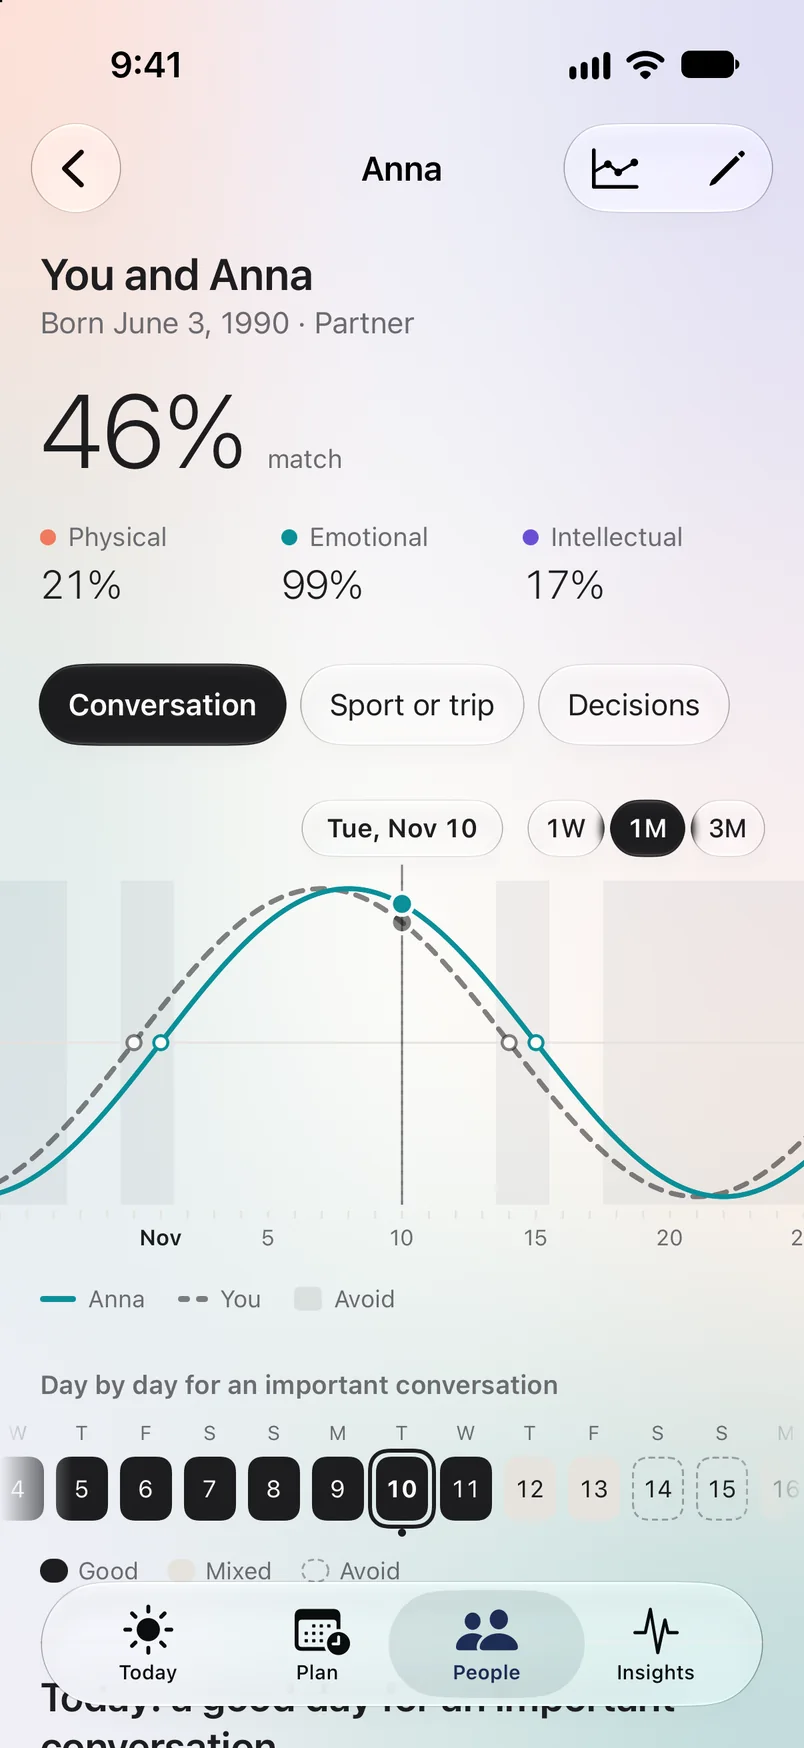
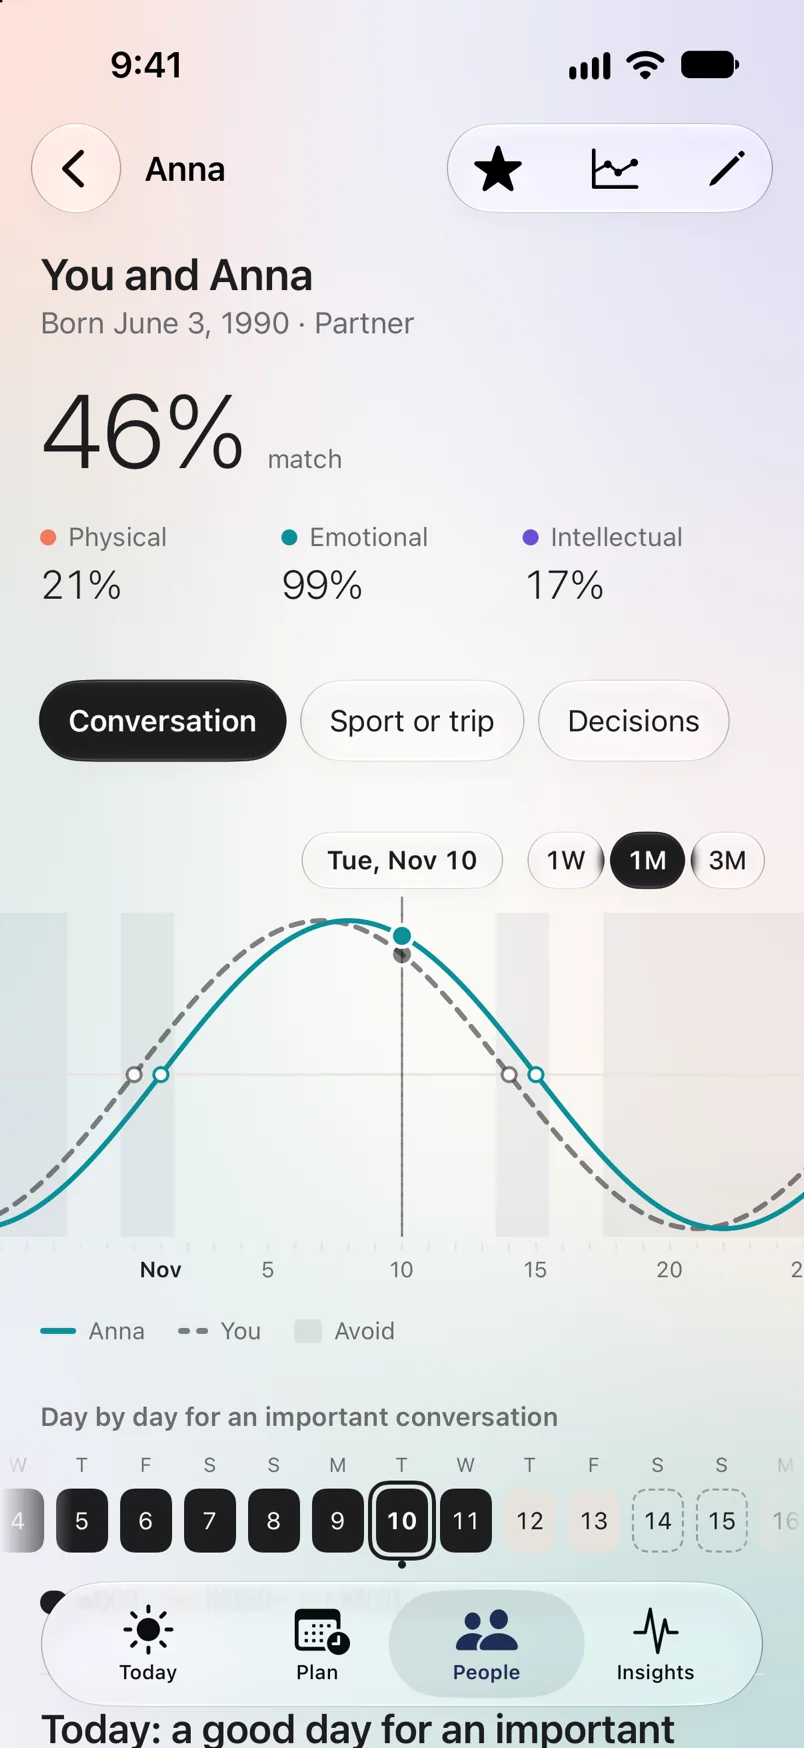
Light and dark app screens that follow the page theme

diff --git a/index.html b/index.html
@@ -8,9 +8,9 @@
     <meta name="theme-color" content="#0f1217" media="(prefers-color-scheme: dark)">
     <link rel="preload" href="fonts/instrument-sans-latin.woff2" as="font" type="font/woff2" crossorigin>
     <link rel="stylesheet" href="themes/default.css?v=2">
-    <link rel="stylesheet" href="styles.css?v=5">
+    <link rel="stylesheet" href="styles.css?v=6">
     <link rel="stylesheet" href="scrollcraft.css?v=1">
-    <link rel="stylesheet" href="landing.css?v=1">
+    <link rel="stylesheet" href="landing.css?v=2">
     <!-- Title: under 60 characters, brand + what it is + platform. Add "Official Site" only if other products share the name. -->
     <title>Biotide: Daily Biorhythm Chart & Energy Tracker</title>
     <!-- Description: max 160 characters, one sentence a searcher would click. -->
@@ -330,7 +330,7 @@
                 <!-- Apple's iPhone 17 bezel, used as is, with a real screen from the app's screenshot
                      mode (iPhone 17 Pro simulator, 1206x2622, exported at 804x1748). Never a drawn phone. -->
                 <div class="phone hero-phone">
-                    <div class="phone__screen"><img src="images/screen-today.webp?v=1" width="804" height="1748" alt="Biotide's daily biorhythm chart for Tuesday, November 10: physical 0, emotional +78, intellectual −37, the three curves across the month, and the day in words: a transition day for the physical cycle, good for time with people" fetchpriority="high"></div>
+                    <div class="phone__screen"><picture class="themed"><source srcset="images/screen-today-dark.webp?v=2" media="(prefers-color-scheme: dark)" data-dark><img src="images/screen-today.webp?v=2" width="804" height="1748" alt="Biotide's daily biorhythm chart for Tuesday, November 10: physical 0, emotional +78, intellectual −37, the three curves across the month, and the day in words: a transition day for the physical cycle, good for time with people" fetchpriority="high"></picture></div>
                     <img class="phone__frame" src="images/iphone17-black.webp" width="675" height="1380" alt="" aria-hidden="true">
                 </div>
             </div>
@@ -436,7 +436,7 @@
                     <li class="how-step"><h3>See what fits</h3><p>After 14 check-ins Biotide shows how often each curve matched how you felt. Here the emotional curve matched only 57% of the time, so it counts for less.</p></li>
                     <li class="how-step"><h3>Plan ahead</h3><p>Pick an exam, an interview or an important conversation, and Biotide ranks the days ahead with the curves that fit you: here, the 15th, 17th and 19th.</p></li>
                 </ol>
-                <div class="phone how-phone"><div class="phone__screen"><img class="how-screen" data-step="0" data-from="0.0" src="images/screen-today.webp?v=1" width="804" height="1748" alt="Biotide&#x27;s Today screen for Tuesday, November 10: physical 0, emotional +78, intellectual −37 and the three curves across the month" loading="lazy"><img class="how-screen" data-step="0" data-from="0.17" src="images/screen-checkin.webp?v=1" width="804" height="1748" alt="The daily check-in: energy, mood, focus and last night&#x27;s sleep, each rated from 1 to 5, with an optional note" loading="lazy"><img class="how-screen" data-step="1" data-from="0.4" src="images/screen-insights.webp?v=1" width="804" height="1748" alt="Insights: Apple Health signals against your usual, two weeks of check-in averages, and how often each curve matched how you felt" loading="lazy"><img class="how-screen" data-step="2" data-from="0.62" src="images/screen-plan.webp?v=1" width="804" height="1748" alt="Prime days for an exam: the best days in the next 30, the first on Tuesday, November 17" loading="lazy"></div><img class="phone__frame" src="images/iphone17-black.webp" width="675" height="1380" alt="" aria-hidden="true" loading="lazy"></div>
+                <div class="phone how-phone"><div class="phone__screen"><picture class="themed"><source srcset="images/screen-today-dark.webp?v=2" media="(prefers-color-scheme: dark)" data-dark><img class="how-screen" data-step="0" data-from="0.0" src="images/screen-today.webp?v=2" width="804" height="1748" alt="Biotide&#x27;s Today screen for Tuesday, November 10: physical 0, emotional +78, intellectual −37 and the three curves across the month" loading="lazy"></picture><picture class="themed"><source srcset="images/screen-checkin-dark.webp?v=2" media="(prefers-color-scheme: dark)" data-dark><img class="how-screen" data-step="0" data-from="0.17" src="images/screen-checkin.webp?v=2" width="804" height="1748" alt="The daily check-in: energy, mood, focus and last night&#x27;s sleep, each rated from 1 to 5, with an optional note" loading="lazy"></picture><picture class="themed"><source srcset="images/screen-insights-dark.webp?v=2" media="(prefers-color-scheme: dark)" data-dark><img class="how-screen" data-step="1" data-from="0.4" src="images/screen-insights.webp?v=2" width="804" height="1748" alt="Insights: Apple Health signals against your usual, two weeks of check-in averages, and how often each curve matched how you felt" loading="lazy"></picture><picture class="themed"><source srcset="images/screen-plan-dark.webp?v=2" media="(prefers-color-scheme: dark)" data-dark><img class="how-screen" data-step="2" data-from="0.62" src="images/screen-plan.webp?v=2" width="804" height="1748" alt="Prime days for an exam: the best days in the next 30, the first on Tuesday, November 17" loading="lazy"></picture></div><img class="phone__frame" src="images/iphone17-black.webp" width="675" height="1380" alt="" aria-hidden="true" loading="lazy"></div>
             </div>
         </div>
     </section>
@@ -490,12 +490,12 @@
         </div>
         <div class="marquee" aria-label="iPhone screenshots">
             <div class="marquee-group">
-                <img src="images/screen-today.webp?v=1" width="804" height="1748" alt="Today: the three cycle values and the daily biorhythm chart for the month" loading="lazy">
-                <img src="images/screen-checkin.webp?v=1" width="804" height="1748" alt="The daily check-in: energy, mood, focus and sleep, each from 1 to 5" loading="lazy">
-                <img src="images/screen-insights.webp?v=1" width="804" height="1748" alt="Insights: Apple Health signals against your usual and how often each curve matched how you felt" loading="lazy">
-                <img src="images/screen-plan.webp?v=1" width="804" height="1748" alt="Prime days: the best days in the next 30 for an exam" loading="lazy">
-                <img src="images/screen-compatibility.webp?v=1" width="804" height="1748" alt="Biorhythm compatibility with Anna: a 46% match, each cycle's share, both curves on one chart and a day-by-day strip for an important conversation" loading="lazy">
-                <img src="images/screen-people.webp?v=1" width="804" height="1748" alt="People: Dad, Anna and Mark with their match and their next good day to talk" loading="lazy">
+                <picture class="themed"><source srcset="images/screen-today-dark.webp?v=2" media="(prefers-color-scheme: dark)" data-dark><img src="images/screen-today.webp?v=2" width="804" height="1748" alt="Today: the three cycle values and the daily biorhythm chart for the month" loading="lazy"></picture>
+                <picture class="themed"><source srcset="images/screen-checkin-dark.webp?v=2" media="(prefers-color-scheme: dark)" data-dark><img src="images/screen-checkin.webp?v=2" width="804" height="1748" alt="The daily check-in: energy, mood, focus and sleep, each from 1 to 5" loading="lazy"></picture>
+                <picture class="themed"><source srcset="images/screen-insights-dark.webp?v=2" media="(prefers-color-scheme: dark)" data-dark><img src="images/screen-insights.webp?v=2" width="804" height="1748" alt="Insights: Apple Health signals against your usual and how often each curve matched how you felt" loading="lazy"></picture>
+                <picture class="themed"><source srcset="images/screen-plan-dark.webp?v=2" media="(prefers-color-scheme: dark)" data-dark><img src="images/screen-plan.webp?v=2" width="804" height="1748" alt="Prime days: the best days in the next 30 for an exam" loading="lazy"></picture>
+                <picture class="themed"><source srcset="images/screen-compatibility-dark.webp?v=2" media="(prefers-color-scheme: dark)" data-dark><img src="images/screen-compatibility.webp?v=2" width="804" height="1748" alt="Biorhythm compatibility with Anna: a 46% match, each cycle's share, both curves on one chart and a day-by-day strip for an important conversation" loading="lazy"></picture>
+                <picture class="themed"><source srcset="images/screen-people-dark.webp?v=2" media="(prefers-color-scheme: dark)" data-dark><img src="images/screen-people.webp?v=2" width="804" height="1748" alt="People: Anna, starred, then Dad and Mark, with their match and their next good day to talk" loading="lazy"></picture>
             </div>
         </div>
     </section>
@@ -625,7 +625,7 @@
     <p class="copyright">&copy; <span id="year">2026</span> Biotide. All rights reserved.</p>
 </footer>
 <!-- /chrome:footer -->
-<script src="site.js?v=2"></script>
+<script src="site.js?v=3"></script>
 <script src="scrollcraft.js?v=1"></script>
 <script>ScrollCraft.mount(document.body);</script>
 <script src="landing.js?v=1"></script>

diff --git a/site.js b/site.js
@@ -135,12 +135,22 @@
             if (allowedThemes.indexOf(theme) === -1) theme = "system";
             html.setAttribute("data-theme", theme);
             writePreference(THEME_KEY, theme);
+            syncThemedImages(theme);
 
             controls.forEach(function (control) {
                 var selected = control.dataset.themeValue === theme;
                 control.checked = selected;
                 control.closest(".theme-option").classList.toggle("active", selected);
                 if (selected && moveFocus) control.focus();
+            });
+        }
+
+        // Screens come in light and dark: each <picture> has a dark <source data-dark>. Its media query follows
+        // the system on its own; a picked theme overrides it, and the browser swaps the image when media changes.
+        function syncThemedImages(theme) {
+            var media = theme === "dark" ? "all" : theme === "light" ? "not all" : "(prefers-color-scheme: dark)";
+            document.querySelectorAll("source[data-dark]").forEach(function (source) {
+                if (source.getAttribute("media") !== media) source.setAttribute("media", media);
             });
         }
 

diff --git a/privacy.html b/privacy.html
@@ -10,7 +10,7 @@
     <meta name="robots" content="index, follow">
     <link rel="preload" href="fonts/instrument-sans-latin.woff2" as="font" type="font/woff2" crossorigin>
     <link rel="stylesheet" href="themes/default.css?v=2">
-    <link rel="stylesheet" href="styles.css?v=5">
+    <link rel="stylesheet" href="styles.css?v=6">
     <script>try{document.documentElement.dataset.theme=localStorage.getItem('biotide_theme')||'system'}catch(e){document.documentElement.dataset.theme='system'}</script>
     <link rel="canonical" href="https://biotide.app/privacy.html">
     <link rel="alternate" type="text/markdown" href="https://biotide.app/privacy.html.md" title="Markdown version for AI agents">
@@ -271,6 +271,6 @@
     <p class="copyright">&copy; <span id="year">2026</span> Biotide. All rights reserved.</p>
 </footer>
 <!-- /chrome:footer -->
-<script src="site.js?v=2"></script>
+<script src="site.js?v=3"></script>
 </body>
 </html>

diff --git a/404.html b/404.html
@@ -10,7 +10,7 @@
     <link rel="preload" href="/fonts/instrument-sans-latin.woff2" as="font" type="font/woff2" crossorigin>
     <!-- Absolute paths: a 404 can be served at any depth. -->
     <link rel="stylesheet" href="/themes/default.css?v=2">
-    <link rel="stylesheet" href="/styles.css?v=5">
+    <link rel="stylesheet" href="/styles.css?v=6">
     <script>try{document.documentElement.dataset.theme=localStorage.getItem('biotide_theme')||'system'}catch(e){document.documentElement.dataset.theme='system'}</script>
     <link rel="icon" type="image/png" href="/images/favicon.png?v=2" sizes="64x64">
     <link rel="apple-touch-icon" href="/images/apple-touch-icon.png?v=2" sizes="180x180">
@@ -114,6 +114,6 @@
     <p class="copyright">&copy; <span id="year">2026</span> Biotide. All rights reserved.</p>
 </footer>
 <!-- /chrome:footer -->
-<script src="/site.js?v=2"></script>
+<script src="/site.js?v=3"></script>
 </body>
 </html>

diff --git a/styles.css b/styles.css
@@ -325,6 +325,9 @@ p, li, dd, dt { max-width: 62ch; }
     width: calc(var(--sw) * 100% + 2 * var(--bleed)); height: calc(var(--sh) * 100% + 2 * var(--bleed));
     border-radius: calc(var(--sr) * var(--pw) + var(--bleed));
 }
+/* light and dark screens: a <picture> whose dark <source> follows the page theme (site.js); the picture adds no box,
+   so the img lays out as if it stood alone */
+picture.themed { display: contents; }
 .phone__screen img { position: absolute; inset: 0; width: 100%; height: 100%; max-width: none; object-fit: fill; }
 img.phone__frame { position: absolute; inset: 0; width: 100%; height: 100%; max-width: none; pointer-events: none; }
 

diff --git a/landing.css b/landing.css
@@ -76,7 +76,7 @@ html { scroll-behavior: auto; }
 /* Apple's bezel, used as is: never moved, tilted, scaled, shadowed or cropped */
 .how-phone { grid-column: 2; grid-row: 1 / 3; width: auto; height: min(74vh, 640px); --pw: calc(min(74vh, 640px) * 0.4891); }
 .how-screen { opacity: 0; }
-.how-screen:first-child { opacity: 1; }
+.phone__screen > :first-child > .how-screen { opacity: 1; }
 .how-act + .section { border-top: 1px solid var(--line); }
 
 @media (max-width: 760px) {

diff --git a/tools/how_scene.py b/tools/how_scene.py
@@ -138,11 +138,15 @@ def svg():
     return "\n                    ".join(e)
 
 
+# Each screen comes in light and dark (images/screen-NAME.webp and screen-NAME-dark.webp); the dark one is a
+# <source data-dark> that site.js points at the page's theme.
+SCREEN_VERSION = 2
+
 SCREENS = [
-    ("today", 0, "images/screen-today.webp?v=1", "Biotide's Today screen for Tuesday, November 10: physical 0, emotional +78, intellectual −37 and the three curves across the month"),
-    ("checkin", 0, "images/screen-checkin.webp?v=1", "The daily check-in: energy, mood, focus and last night's sleep, each rated from 1 to 5, with an optional note"),
-    ("insights", 1, "images/screen-insights.webp?v=1", "Insights: Apple Health signals against your usual, two weeks of check-in averages, and how often each curve matched how you felt"),
-    ("plan", 2, "images/screen-plan.webp?v=1", "Prime days for an exam: the best days in the next 30, the first on Tuesday, November 17"),
+    ("today", 0, "images/screen-today.webp", "Biotide's Today screen for Tuesday, November 10: physical 0, emotional +78, intellectual −37 and the three curves across the month"),
+    ("checkin", 0, "images/screen-checkin.webp", "The daily check-in: energy, mood, focus and last night's sleep, each rated from 1 to 5, with an optional note"),
+    ("insights", 1, "images/screen-insights.webp", "Insights: Apple Health signals against your usual, two weeks of check-in averages, and how often each curve matched how you felt"),
+    ("plan", 2, "images/screen-plan.webp", "Prime days for an exam: the best days in the next 30, the first on Tuesday, November 17"),
 ]
 
 STEPS = [
@@ -155,7 +159,8 @@ STEPS = [
 def scene():
     warp = "[" + ", ".join(f"[{p}, {f:.4f}]" for p, f in WARP) + "]"
     screens = "".join(
-        f'<img class="how-screen" data-step="{step}" data-from="{STEP_FROM[key]}" src="{src}" width="804" height="1748" alt="{html.escape(alt)}" loading="lazy">'
+        f'<picture class="themed"><source srcset="{src.replace(".webp", "-dark.webp")}?v={SCREEN_VERSION}" media="(prefers-color-scheme: dark)" data-dark>'
+        f'<img class="how-screen" data-step="{step}" data-from="{STEP_FROM[key]}" src="{src}?v={SCREEN_VERSION}" width="804" height="1748" alt="{html.escape(alt)}" loading="lazy"></picture>'
         for key, step, src, alt in SCREENS)
     steps = "\n".join(
         f'                    <li class="how-step"><h3>{html.escape(h)}</h3><p>{html.escape(p)}</p></li>' for h, p in STEPS)

diff --git a/index.html.md b/index.html.md
@@ -17,7 +17,7 @@ Coming soon to the App Store
 
 For reflection and planning. Biorhythms are not proven science or medical advice.
 
-![Biotide's daily biorhythm chart for Tuesday, November 10: physical 0, emotional +78, intellectual −37, the three curves across the month, and the day in words: a transition day for the physical cycle, good for time with people](https://biotide.app/images/screen-today.webp?v=1)
+![Biotide's daily biorhythm chart for Tuesday, November 10: physical 0, emotional +78, intellectual −37, the three curves across the month, and the day in words: a transition day for the physical cycle, good for time with people](https://biotide.app/images/screen-today.webp?v=2)
 
 ## Most biorhythm apps tell you. Biotide asks you.
 
@@ -73,7 +73,7 @@ Sample data, as on the screens: the cycles for a birth date of 12 March 1988, tw
 
    Pick an exam, an interview or an important conversation, and Biotide ranks the days ahead with the curves that fit you: here, the 15th, 17th and 19th.
 
-![Biotide's Today screen for Tuesday, November 10: physical 0, emotional +78, intellectual −37 and the three curves across the month](https://biotide.app/images/screen-today.webp?v=1)![The daily check-in: energy, mood, focus and last night's sleep, each rated from 1 to 5, with an optional note](https://biotide.app/images/screen-checkin.webp?v=1)![Insights: Apple Health signals against your usual, two weeks of check-in averages, and how often each curve matched how you felt](https://biotide.app/images/screen-insights.webp?v=1)![Prime days for an exam: the best days in the next 30, the first on Tuesday, November 17](https://biotide.app/images/screen-plan.webp?v=1)
+![Biotide's Today screen for Tuesday, November 10: physical 0, emotional +78, intellectual −37 and the three curves across the month](https://biotide.app/images/screen-today.webp?v=2)![The daily check-in: energy, mood, focus and last night's sleep, each rated from 1 to 5, with an optional note](https://biotide.app/images/screen-checkin.webp?v=2)![Insights: Apple Health signals against your usual, two weeks of check-in averages, and how often each curve matched how you felt](https://biotide.app/images/screen-insights.webp?v=2)![Prime days for an exam: the best days in the next 30, the first on Tuesday, November 17](https://biotide.app/images/screen-plan.webp?v=2)
 
 ## What it costs
 
@@ -109,12 +109,12 @@ Prices are set by the App Store and shown in your currency before you buy. Subsc
 
 Real screens from the app, with sample data: today, the check-in, Insights, Prime days, a compatibility view and People.
 
-![Today: the three cycle values and the daily biorhythm chart for the month](https://biotide.app/images/screen-today.webp?v=1)
-![The daily check-in: energy, mood, focus and sleep, each from 1 to 5](https://biotide.app/images/screen-checkin.webp?v=1)
-![Insights: Apple Health signals against your usual and how often each curve matched how you felt](https://biotide.app/images/screen-insights.webp?v=1)
-![Prime days: the best days in the next 30 for an exam](https://biotide.app/images/screen-plan.webp?v=1)
-![Biorhythm compatibility with Anna: a 46% match, each cycle's share, both curves on one chart and a day-by-day strip for an important conversation](https://biotide.app/images/screen-compatibility.webp?v=1)
-![People: Dad, Anna and Mark with their match and their next good day to talk](https://biotide.app/images/screen-people.webp?v=1)
+![Today: the three cycle values and the daily biorhythm chart for the month](https://biotide.app/images/screen-today.webp?v=2)
+![The daily check-in: energy, mood, focus and sleep, each from 1 to 5](https://biotide.app/images/screen-checkin.webp?v=2)
+![Insights: Apple Health signals against your usual and how often each curve matched how you felt](https://biotide.app/images/screen-insights.webp?v=2)
+![Prime days: the best days in the next 30 for an exam](https://biotide.app/images/screen-plan.webp?v=2)
+![Biorhythm compatibility with Anna: a 46% match, each cycle's share, both curves on one chart and a day-by-day strip for an important conversation](https://biotide.app/images/screen-compatibility.webp?v=2)
+![People: Anna, starred, then Dad and Mark, with their match and their next good day to talk](https://biotide.app/images/screen-people.webp?v=2)
 
 ## Stated plainly
 

diff --git a/images/README.md b/images/README.md
@@ -12,7 +12,8 @@ social network accepts WebP), `favicon.png` and `apple-touch-icon.png` (platform
 | `og-image.png` | 1200x630 | `tools/render_og.sh` from `tools/og-image.html` |
 | `download-on-the-app-store.svg` | 156x52 as used | Apple's badge, served locally (no third-party request) |
 | `screenshot-1..N.webp` | ~560 px wide | the App Store frames, once they exist (not yet) |
-| `screen-*.webp` | 804x1748 | real app screens, also the schema screenshots (see below) |
+| `screen-*.webp` | 804x1748 | real app screens in light, also the schema screenshots (see below) |
+| `screen-*-dark.webp` | 804x1748 | the same screens in dark, shown when the page is dark |
 | `iphone17-black.webp` | 675x1380 | Apple's iPhone 17 bezel (Black), from developer.apple.com/design/resources; used as is |
 
 The icons are the app's own 1024 px icon (`Biotide/Resources/Assets.xcassets/AppIcon.appiconset/AppIcon.png`
@@ -20,10 +21,17 @@ in the app repo), scaled down, square and opaque. `tools/placeholder_icons.py` w
 them: don't run it again.
 
 The screens come from the app's screenshot mode (sample data, never a real person's) on the
-iPhone 17 Pro spare simulator, light appearance, US region (12-hour clock) and the status bar set
-to 9:41, full battery: `-SCREENSHOT_MODE -SCREENSHOT_SCREEN <today|checkIn|insights|plan>`, then
+iPhone 17 Pro spare simulator, US region (12-hour clock) and the status bar set to 9:41, full
+battery: `-SCREENSHOT_MODE -SCREENSHOT_DAY 20261110 -SCREENSHOT_SCREEN <today|checkIn|insights|plan|compatibility|people>`,
+once in the light appearance and once in dark (`xcrun simctl ui <udid> appearance dark`), then
 `xcrun simctl io <udid> screenshot`, scaled from 1206x2622 to 804x1748 and saved with
-`cwebp -q 84 -m 6`. Re-capture them when those screens change, then re-render the social image.
+`cwebp -q 84 -m 6`. `-SCREENSHOT_DAY` pins the day to Tuesday 10 November 2026, the day the alt
+texts and the How it works scene (`tools/how_scene.py`) describe, so a re-capture keeps matching
+them. Re-capture both appearances when those screens change, then re-render the social image.
+
+Each screen is a `<picture class="themed">` with the dark file as `<source data-dark
+media="(prefers-color-scheme: dark)">`: the system's appearance picks it with no script, and
+`site.js` rewrites that media query when the visitor picks Light or Dark in the header.
 
 Rules: every `<img>` has `alt`, `width` and `height` (the SEO check enforces it). Bump the
 `?v=` on an image URL when its content changes; Pages caches images for a week.

diff --git a/README.md b/README.md
@@ -42,7 +42,7 @@
   <tr>
     <td align="center"><img src="images/screen-plan.webp" width="230" alt="Prime days: the best days in the next 30 for an exam"><br><b>Prime days</b><br>The best days for what's coming up</td>
     <td align="center"><img src="images/screen-compatibility.webp" width="230" alt="Biorhythm compatibility with Anna: a 46% match, both curves on one chart and a day-by-day strip"><br><b>Compatibility</b><br>Your rhythm next to someone else's</td>
-    <td align="center"><img src="images/screen-people.webp" width="230" alt="People: Dad, Anna and Mark with their match and next good day to talk"><br><b>People</b><br>Everyone, with their next good day to talk</td>
+    <td align="center"><img src="images/screen-people.webp" width="230" alt="People: Anna, starred, then Dad and Mark with their match and next good day to talk"><br><b>People</b><br>Everyone, with their next good day to talk</td>
   </tr>
 </table>
 
